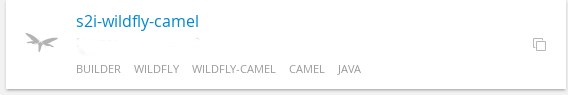
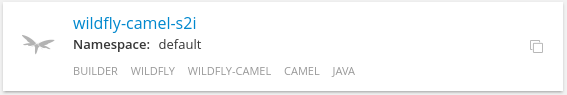
[resolves #1511] Review the steps documented for s2i

diff --git a/docs/guide/index.html b/docs/guide/index.html
@@ -4293,8 +4293,19 @@ $ oc cluster up --public-hostname=ec2-1-2-3-4.eu-west-1.compute.amazonaws.com --
 </div>
 <div class="listingblock">
 <div class="content">
-<pre class="highlight nowrap"><code>$ s2i build https://github.com/wildfly-extras/wildfly-camel-examples.git -r 4.4.0-SNAPSHOT --context-dir camel-cdi wildflyext/s2i-wildfly-camel:4.4.0-SNAPSHOT wildfly-camel-example-cdi
-$ docker run -p 8080:8080 wildfly-camel-example-cdi</code></pre>
+<pre class="highlight nowrap"><code>$ s2i build https://github.com/wildfly-extras/wildfly-camel-examples.git -r 4.3.0 --context-dir camel-cdi wildflyext/s2i-wildfly-camel:4.3.0 wildfly-camel-example-cdi
+$ docker run -ti -p 8080:8080 wildfly-camel-example-cdi</code></pre>
+</div>
+</div>
+<div class="paragraph">
+<p>From a remote client, you should now be able to access the service like this</p>
+</div>
+<div class="paragraph">
+<p><a href="http://1.2.3.4:8080/example-camel-cdi?name=Kermit" class="bare" target="_blank">http://1.2.3.4:8080/example-camel-cdi?name=Kermit</a></p>
+</div>
+<div class="literalblock">
+<div class="content">
+<pre>Hello Kermit</pre>
 </div>
 </div>
 </div>
@@ -4309,7 +4320,7 @@ template and an <a href="sources/wildfly-camel-template.json" target="_blank">ap
 </div>
 <div class="listingblock">
 <div class="content">
-<pre class="highlight nowrap"><code>$ oc apply -f http://wildfly-extras.github.io/wildfly-camel/sources/wildfly-camel-image-streams.json</code></pre>
+<pre class="highlight nowrap"><code>$ oc apply -f http://wildfly-extras.github.io/wildfly-camel/sources/wildfly-camel-imagestreams.json</code></pre>
 </div>
 </div>
 <div class="paragraph">
@@ -4322,7 +4333,139 @@ template and an <a href="sources/wildfly-camel-template.json" target="_blank">ap
 </div>
 <div class="paragraph">
 <p>When you select 'Add to Project' in the OpenShift web console you should see a new catalog item named
-'s2i-wildfly-camel'. Choose this option, provide the required template parameters and click 'Create' to start the build process.</p>
+'wildfly-camel-s2i'. Choose this option, then provide the required template parameters:</p>
+</div>
+<table class="tableblock frame-all grid-all spread">
+<colgroup>
+<col style="width: 25%;">
+<col style="width: 25%;">
+<col style="width: 25%;">
+<col style="width: 25%;">
+</colgroup>
+<thead>
+<tr>
+<th class="tableblock halign-left valign-top">Parameter Name</th>
+<th class="tableblock halign-left valign-top">Value</th>
+<th class="tableblock halign-left valign-top">Required</th>
+<th class="tableblock halign-left valign-top">Default</th>
+</tr>
+</thead>
+<tbody>
+<tr>
+<td class="tableblock halign-left valign-top"><p class="tableblock">APP_NAME</p></td>
+<td class="tableblock halign-left valign-top"><p class="tableblock">The name of your application</p></td>
+<td class="tableblock halign-left valign-top"><p class="tableblock">No</p></td>
+<td class="tableblock halign-left valign-top"><p class="tableblock">wildfly-camel-app</p></td>
+</tr>
+<tr>
+<td class="tableblock halign-left valign-top"><p class="tableblock">GIT_REPO</p></td>
+<td class="tableblock halign-left valign-top"><p class="tableblock">The URL of your application git repository</p></td>
+<td class="tableblock halign-left valign-top"><p class="tableblock">Yes</p></td>
+<td class="tableblock halign-left valign-top"></td>
+</tr>
+<tr>
+<td class="tableblock halign-left valign-top"><p class="tableblock">GIT_REF</p></td>
+<td class="tableblock halign-left valign-top"><p class="tableblock">A branch or tag name to reference in the git repository</p></td>
+<td class="tableblock halign-left valign-top"><p class="tableblock">No</p></td>
+<td class="tableblock halign-left valign-top"><p class="tableblock">master</p></td>
+</tr>
+<tr>
+<td class="tableblock halign-left valign-top"><p class="tableblock">CONTEXT_DIR</p></td>
+<td class="tableblock halign-left valign-top"><p class="tableblock">Path within the source tree to build from</p></td>
+<td class="tableblock halign-left valign-top"><p class="tableblock">No</p></td>
+<td class="tableblock halign-left valign-top"><p class="tableblock">Project root directory</p></td>
+</tr>
+<tr>
+<td class="tableblock halign-left valign-top"><p class="tableblock">ARTIFACT_DIR</p></td>
+<td class="tableblock halign-left valign-top"><p class="tableblock">Comma seperated list of directories where build artefacts are located</p></td>
+<td class="tableblock halign-left valign-top"><p class="tableblock">No</p></td>
+<td class="tableblock halign-left valign-top"><p class="tableblock">&lt;project-root&gt;/target</p></td>
+</tr>
+<tr>
+<td class="tableblock halign-left valign-top"><p class="tableblock">HOSTNAME_HTTP</p></td>
+<td class="tableblock halign-left valign-top"><p class="tableblock">Custom hostname for http service route</p></td>
+<td class="tableblock halign-left valign-top"><p class="tableblock">No</p></td>
+<td class="tableblock halign-left valign-top"><p class="tableblock">&lt;application-name&gt;-&lt;project&gt;.&lt;default-domain-suffix&gt;</p></td>
+</tr>
+<tr>
+<td class="tableblock halign-left valign-top"><p class="tableblock">MYSQL_DATABASE</p></td>
+<td class="tableblock halign-left valign-top"><p class="tableblock">Name of a pre-deployed MySQL database service</p></td>
+<td class="tableblock halign-left valign-top"><p class="tableblock">No</p></td>
+<td class="tableblock halign-left valign-top"></td>
+</tr>
+<tr>
+<td class="tableblock halign-left valign-top"><p class="tableblock">POSTGRESQL_DATABASE</p></td>
+<td class="tableblock halign-left valign-top"><p class="tableblock">Name of a pre-deployed PostgreSQL database service</p></td>
+<td class="tableblock halign-left valign-top"><p class="tableblock">No</p></td>
+<td class="tableblock halign-left valign-top"></td>
+</tr>
+<tr>
+<td class="tableblock halign-left valign-top"><p class="tableblock">BUILDER_VERSION</p></td>
+<td class="tableblock halign-left valign-top"><p class="tableblock">The version of the wildfly-camel S2I image to use</p></td>
+<td class="tableblock halign-left valign-top"><p class="tableblock">No</p></td>
+<td class="tableblock halign-left valign-top"></td>
+</tr>
+<tr>
+<td class="tableblock halign-left valign-top"><p class="tableblock">APP_VERSION</p></td>
+<td class="tableblock halign-left valign-top"><p class="tableblock">The version of the built application</p></td>
+<td class="tableblock halign-left valign-top"><p class="tableblock">No</p></td>
+<td class="tableblock halign-left valign-top"><p class="tableblock">1.0.0-SNAPSHOT</p></td>
+</tr>
+<tr>
+<td class="tableblock halign-left valign-top"><p class="tableblock">MAVEN_ARGS</p></td>
+<td class="tableblock halign-left valign-top"><p class="tableblock">Arguments passed to mvn in the build</p></td>
+<td class="tableblock halign-left valign-top"><p class="tableblock">No</p></td>
+<td class="tableblock halign-left valign-top"><p class="tableblock">clean package -DskipTests -e</p></td>
+</tr>
+<tr>
+<td class="tableblock halign-left valign-top"><p class="tableblock">MAVEN_ARGS_APPEND</p></td>
+<td class="tableblock halign-left valign-top"><p class="tableblock">Extra arguments passed to mvn, e.g. for multi-module builds</p></td>
+<td class="tableblock halign-left valign-top"><p class="tableblock">No</p></td>
+<td class="tableblock halign-left valign-top"></td>
+</tr>
+<tr>
+<td class="tableblock halign-left valign-top"><p class="tableblock">IMAGE_STREAM_NAMESPACE</p></td>
+<td class="tableblock halign-left valign-top"><p class="tableblock">Namespace in which the WildFly-Camel ImageStreams are installed</p></td>
+<td class="tableblock halign-left valign-top"><p class="tableblock">Yes</p></td>
+<td class="tableblock halign-left valign-top"><p class="tableblock">Openshift</p></td>
+</tr>
+</tbody>
+</table>
+<div class="paragraph">
+<p>To build the latest release of the WildFly-Camel CDI example you would enter:</p>
+</div>
+<table class="tableblock frame-all grid-all spread">
+<colgroup>
+<col style="width: 50%;">
+<col style="width: 50%;">
+</colgroup>
+<thead>
+<tr>
+<th class="tableblock halign-left valign-top">Parameter Name</th>
+<th class="tableblock halign-left valign-top">Value</th>
+</tr>
+</thead>
+<tbody>
+<tr>
+<td class="tableblock halign-left valign-top"><p class="tableblock">GIT_REPO</p></td>
+<td class="tableblock halign-left valign-top"><p class="tableblock"><a href="https://github.com/wildfly-extras/wildfly-camel-examples" class="bare">https://github.com/wildfly-extras/wildfly-camel-examples</a></p></td>
+</tr>
+<tr>
+<td class="tableblock halign-left valign-top"><p class="tableblock">GIT_REF</p></td>
+<td class="tableblock halign-left valign-top"><p class="tableblock">4.3.0</p></td>
+</tr>
+<tr>
+<td class="tableblock halign-left valign-top"><p class="tableblock">CONTEXT_DIR</p></td>
+<td class="tableblock halign-left valign-top"><p class="tableblock">camel-cdi</p></td>
+</tr>
+<tr>
+<td class="tableblock halign-left valign-top"><p class="tableblock">IMAGE_STREAM_NAMESPACE</p></td>
+<td class="tableblock halign-left valign-top"><p class="tableblock">The name of the OpenShift project (namespace) where the WildFly-Camel imagestream is installed</p></td>
+</tr>
+</tbody>
+</table>
+<div class="paragraph">
+<p>Click 'Create' to start the build process.</p>
 </div>
 <div class="imageblock">
 <div class="content">
@@ -4336,6 +4479,12 @@ template and an <a href="sources/wildfly-camel-template.json" target="_blank">ap
 <div class="content">
 <img src="images/wildfly-camel-s2i-deployed.png" alt="wildfly camel s2i deployed">
 </div>
+</div>
+<div class="paragraph">
+<p>Then to access the application you can browse to the route endpoint URL. For example:</p>
+</div>
+<div class="paragraph">
+<p><a href="http://wildfly-camel-app-default.1.2.3.4.xip.io/example-camel-cdi?name=Kermit" class="bare">http://wildfly-camel-app-default.1.2.3.4.xip.io/example-camel-cdi?name=Kermit</a></p>
 </div>
 </div>
 </div>
@@ -4525,7 +4674,7 @@ producer.requestBodyAndHeader("direct:start", "Kermit", Exchange.AUTHENTICATION,
 <div id="footer">
 <div id="footer-text">
 Version 4.4.0-SNAPSHOT<br>
-Last updated 2016-12-05 09:25:50 CET
+Last updated 2016-12-05 13:43:25 CET
 </div>
 </div>
 </body>
